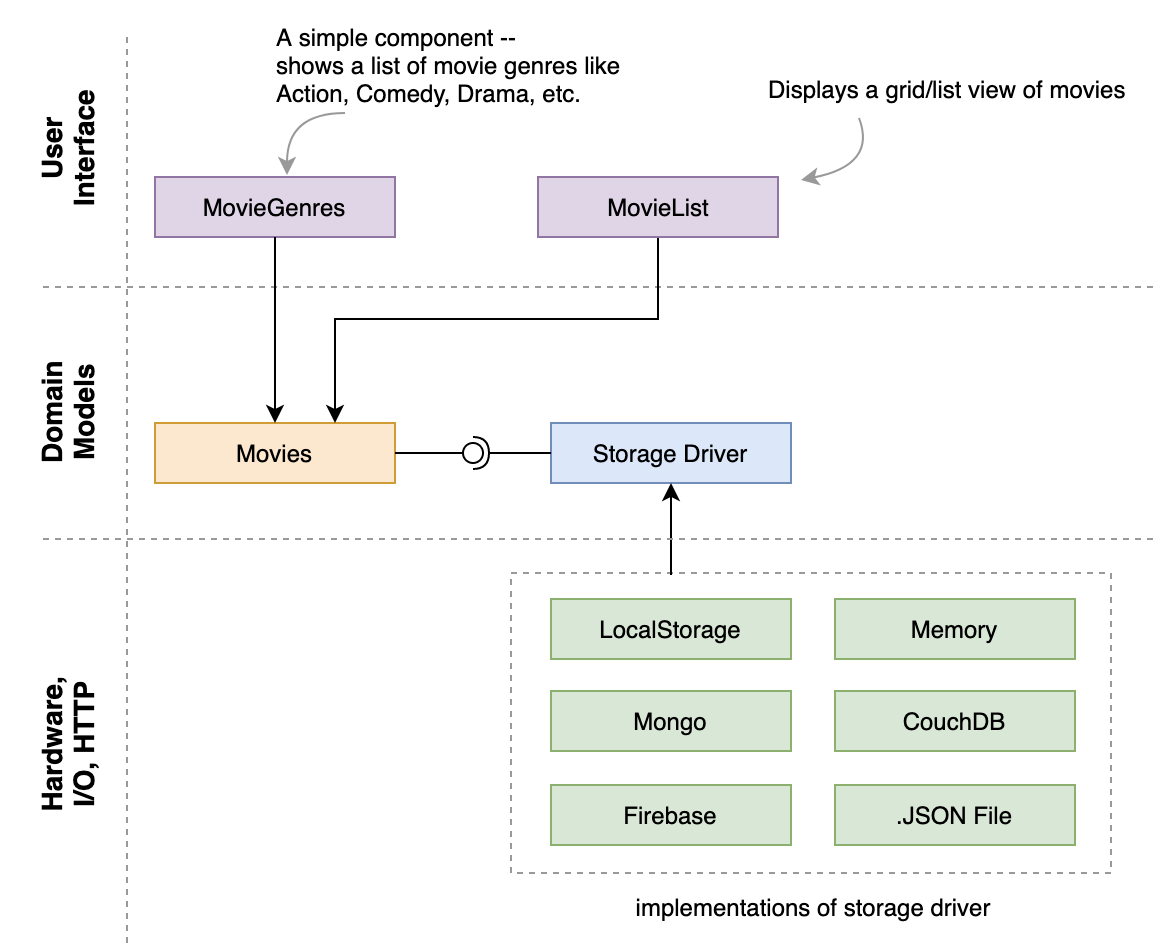
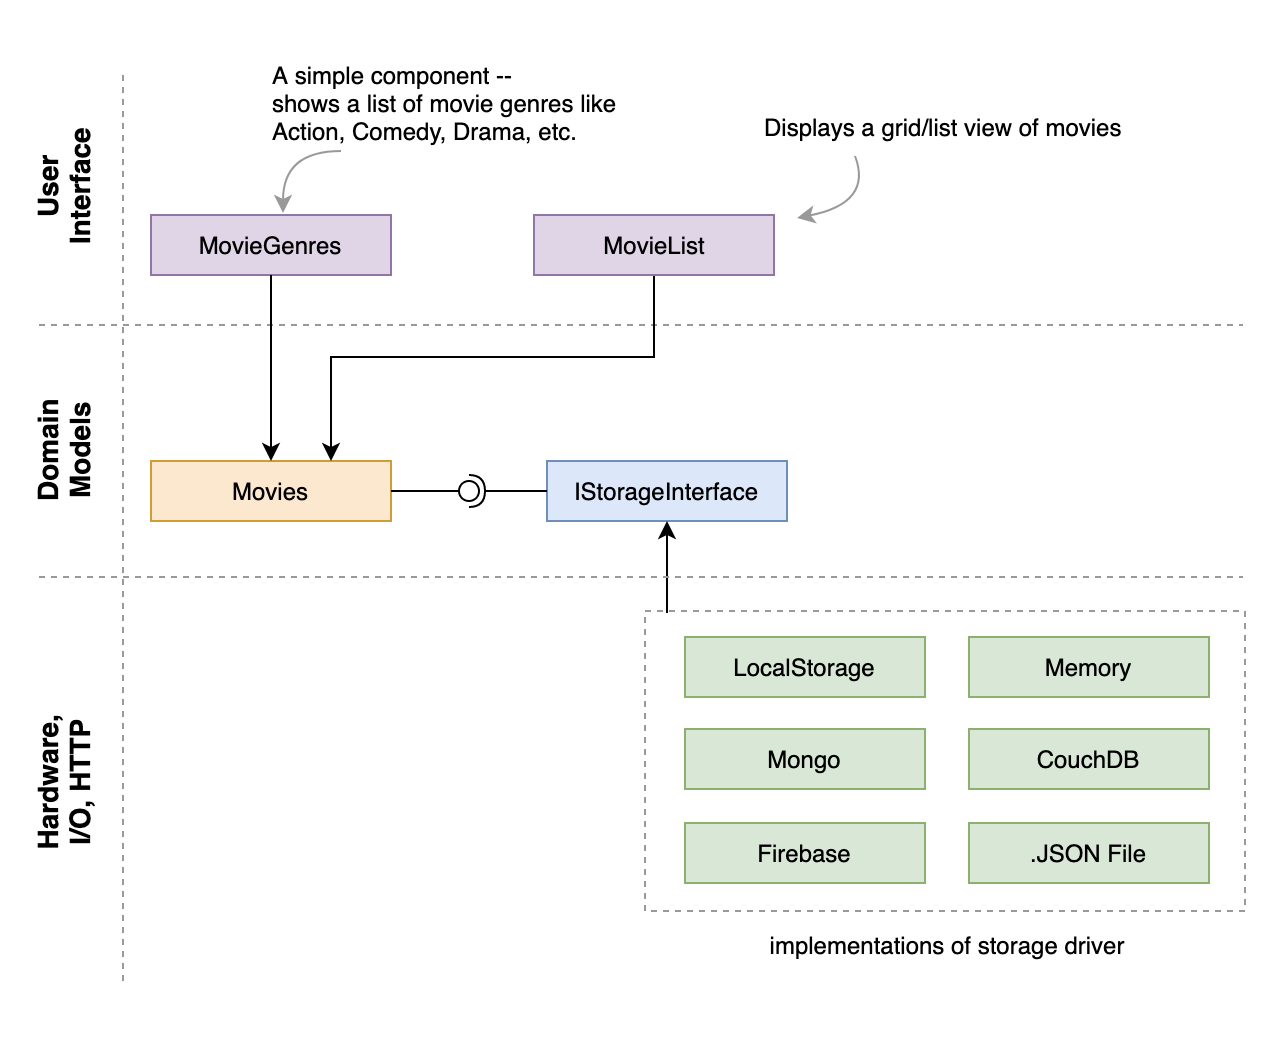
DataRepositories doc updated

diff --git a/src/docs/topics/DataRepositories/index.html b/src/docs/topics/DataRepositories/index.html
@@ -38,6 +38,126 @@
 
 
 
+<div style="display: flex;flex-direction: row;flex-wrap: nowrap;"></div>
+
+    <div style="display: flex;flex-direction: row;flex-wrap: nowrap;" id="how">
+      <div style="width: 50%;padding: 22px;">
+        <h1 id="api-reference">How it works</h1>
+        <h3>Repositories are collections of Aggregrate Roots</h3>
+        <p>
+            A Repository represents a collection of aggregrate root things. For example,
+            a Recipes repository manages a collection of root objects, know as, recipes.
+            They are aggregrate roots because each recipe manages it's ingredients, they are
+            parts of the root object. Individual Recipes become the domain object of interest,
+            having continuity and core meaning. Repositories can also manage parts of
+            an aggregrate root such as ingredients. By introductoin of UnitOfWork and UseCases with
+            Repositories, a well-defined Domain Driven Model emerges.
+            <img src="src/docs/images/black-grapes-aggregrate-root.jpg"/>
+        </p>
+        
+        <p>
+            <h3>Some facts about the Repository:</h3>
+            <ul>
+                <li>Increases Testability</li>
+                <li>Encapsulates persistance technology</li>
+                <li>Works on aggregate root objects</li>
+                <li>queries are centralized</li>
+                <li>logic is centralized</li>
+                <li>provides an in-memory like collection</li>
+            </ul>
+        </p>
+        <p>
+            So as far as the consuming component is concerned, it uses the repository just like a collection or array when working with Domain objects.
+        </p> 
+        <h3>Repositories delegate to Drivers</h3>  
+        <p>
+            <img src="src/docs/images/data_access_repositories2.png"/>
+        </p>     
+        <p>
+            Arc's base class Repository forwards CRUD operation calls to it's storage driver intrface, whatever
+            driver that may be. From the developers point of view, working with a concrete Movies repository
+            is similar to working with an array or a collection-like api. All of the device specific calls to query and store data is encapsulated away and hidden in eacg Driver.
+        </p>
+        <p>
+            Each Driver implements the <code>IStorageInterface</code> contract.
+        </p>
+      </div>
+      <div style="width: 50%;display: block;">
+        <div class="shell lang"></div>
+        <div class="javascript lang">
+            <blockquote class="javascript" style="display:block;width: 100%;">
+            <b>LocalStorage Driver</b>
+            Implements the contractual methods/api defined by <code>IStorageInterface</code>
+          </blockquote>
+          <pre class="highlight javascript" style="display:block;width: 100%;"><code>
+import '/framework/src/core/drivers/storage/pocket.js';
+import '/framework/src/core/drivers/storage/Cursor.js';
+import '/node_modules/od-mingo/dist/mingo.min.js';
+
+/**
+ * @desc Device for working with localStorage using
+ * a mongodb-like api interface.
+ */
+namespace \`core.drivers.storage\`(
+    class LocalStorage extends core.drivers.storage.IStorageInterface {
+        constructor (collection, storage_device){
+            super(collection, storage_device);
+            this.constructor.prototype.pocket = this.constructor.prototype.pocket||new Pocket();
+            this.setCollection(collection.classname);
+        }
+
+        isSeedingEnabled(){
+            return true;
+        }
+
+        setCollection (name){
+            this.collection = this.pocket.collection(name)
+        }
+
+        add(obj, cb){
+            this.collection.insert(obj);
+            cb(obj,null);
+        }
+
+        remove(query, cb){
+            query = new mingo.Query(query);
+            var res = query.remove(this.collection.documents);
+            this.collection.documents = res;
+            cb(res,null)
+        }
+
+        find(cb,query){
+            query = new mingo.Query(query||{});
+            let cursor = query.find(this.collection.documents);
+            var c = new core.drivers.storage.Cursor(cursor)
+            cb(c,null)
+        }
+    }
+);
+</code>
+      </pre>
+
+      <blockquote class="javascript" style="display:block;width: 100%;">
+            <b>Movies Repository</b>
+           configures itself to use the LocalStorage driver.
+          </blockquote>
+          <pre class="highlight javascript" style="display:block;width: 100%;"><code>
+import '/framework/src/core/data/Repository.js';
+
+namespace \`core.data\` (
+    class Movies extends core.data.Repository {
+        @public device_driver = "core.drivers.storage.LocalStorage";
+    }
+);
+</code>
+      </pre>
+        </div>
+        <div class="html lang"></div>
+        <div class="css lang"></div>
+      </div>
+    </div>
+
+
 
 
 
@@ -45,7 +165,7 @@
       <div style="width: 50%;padding: 22px;">
         <h1 id="api-reference">Creating a Repository</h1>
         <p>
-            Let's build a Movies repository. It supplies a collection of movies, we are able to
+            Let's build a repository to represent a collection of movies, we are able to
             query, sort and add/update/delete movies from this collection.
         </p>
 
@@ -333,7 +453,7 @@ console.log("results",res)
           </thead>
           <tbody>
             <tr>
-              <td>add(obj,cb)</td>
+              <td><code>add(obj,cb)</code></td>
               <td>
                 obj - an object to add<br/>
                 cb - a callback (optional)
@@ -341,7 +461,7 @@ console.log("results",res)
               <td>Adds an item to the repository</td>
             </tr>
             <tr>
-              <td>remove(query,cb)</td>
+              <td><code>remove(query,cb)</code></td>
               <td>
                 query - mongo query<br/>
                 cb - a callback with results (optional)
@@ -349,7 +469,7 @@ console.log("results",res)
               <td>Removes matches. Returns array of removed items.</td>
             </tr>
             <tr>
-              <td>find(query,cb)</td>
+              <td><code>find(query,cb)</code></td>
               <td>
                 query - mongo query<br/>
                 cb - a callback with results (optional)
@@ -357,7 +477,7 @@ console.log("results",res)
               <td>Returns an array of matches.</td>
             </tr>
             <tr>
-              <td>update(obj,cb)</td>
+              <td><code>update(obj,cb)</code></td>
               <td>
                 obj - an object to update<br/>
                 cb - success callback (optional)
@@ -365,24 +485,24 @@ console.log("results",res)
               <td>Returns an array of matches.</td>
             </tr>
             <tr>
-              <td>all(cb)</td>
+              <td><code>all(cb)</code></td>
               <td>
                 cb - a callback with results (optional)
               </td>
               <td>Returns all repository items.</td>
             </tr>
             <tr>
-              <td>isSeedable()</td>
+              <td><code>isSeedable()</code></td>
               <td>N/A</td>
               <td>Returns a boolean if repository supports seeding.</td>
             </tr>
             <tr>
-              <td>onInitializeModelDataObjects(data[])</td>
+              <td><code>transform(data[])</code></td>
               <td>data - an array of items that was seeded</td>
               <td>Does nothing by default. Override to transform each JSON object into a Model instance.</td>
             </tr>
             <tr>
-              <td>IRequestStorage</td>
+              <td><code>IRequestStorage</code></td>
               <td>Returns the device storage drver</td>
               <td>Returns the prototype.device_driver configured for ths repository by default.</td>
             </tr>
@@ -404,6 +524,25 @@ SELECT * FROM Movies WHERE title = "Gladiator"
                 </code>
             </pre>
         </p>
+        <p>But the Memory driver we've discussed above, does not rely on SQL or translates to SQL. It literally accepts mongo queries and performs matches against it's simple hash-table of objects.
+        </p>
+        <p>
+            Any method of the base class may be overridden in the concrete repository:
+            <pre class="inline javascript lang">
+                <code>
+namespace \`core.data\` (
+    class Movies extends core.data.Repository {
+        @public device_driver = "core.drivers.storage.Memory";
+
+        static async push(obj,cb){
+            //override baseclass method.
+            console.log("dumping obj", obj);
+        }
+    }
+);
+                </code>
+            </pre>
+        </p>
       </div>
       <div style="width: 50%;display: block;">
         <div class="shell lang"></div>
@@ -415,6 +554,12 @@ SELECT * FROM Movies WHERE title = "Gladiator"
 
 
 
+
+
+
+
+
+    
 
 
 

diff --git a/src/docs/components/TocMenu/index.html b/src/docs/components/TocMenu/index.html
@@ -151,6 +151,7 @@
                 <li><a href="#docs.topics.DataRepositories">
                   Repositories
                   <ol>
+                    <li><a href="#docs.topics.DataRepositories/how">How it Works</a></li>
                     <li><a href="#docs.topics.DataRepositories/create">Create Repositories</a></li>
                     <li><a href="#docs.topics.DataRepositories/seeding">Seeding</a></li>
                     <li><a href="#docs.topics.DataRepositories/using">Using Repositories</a></li>
